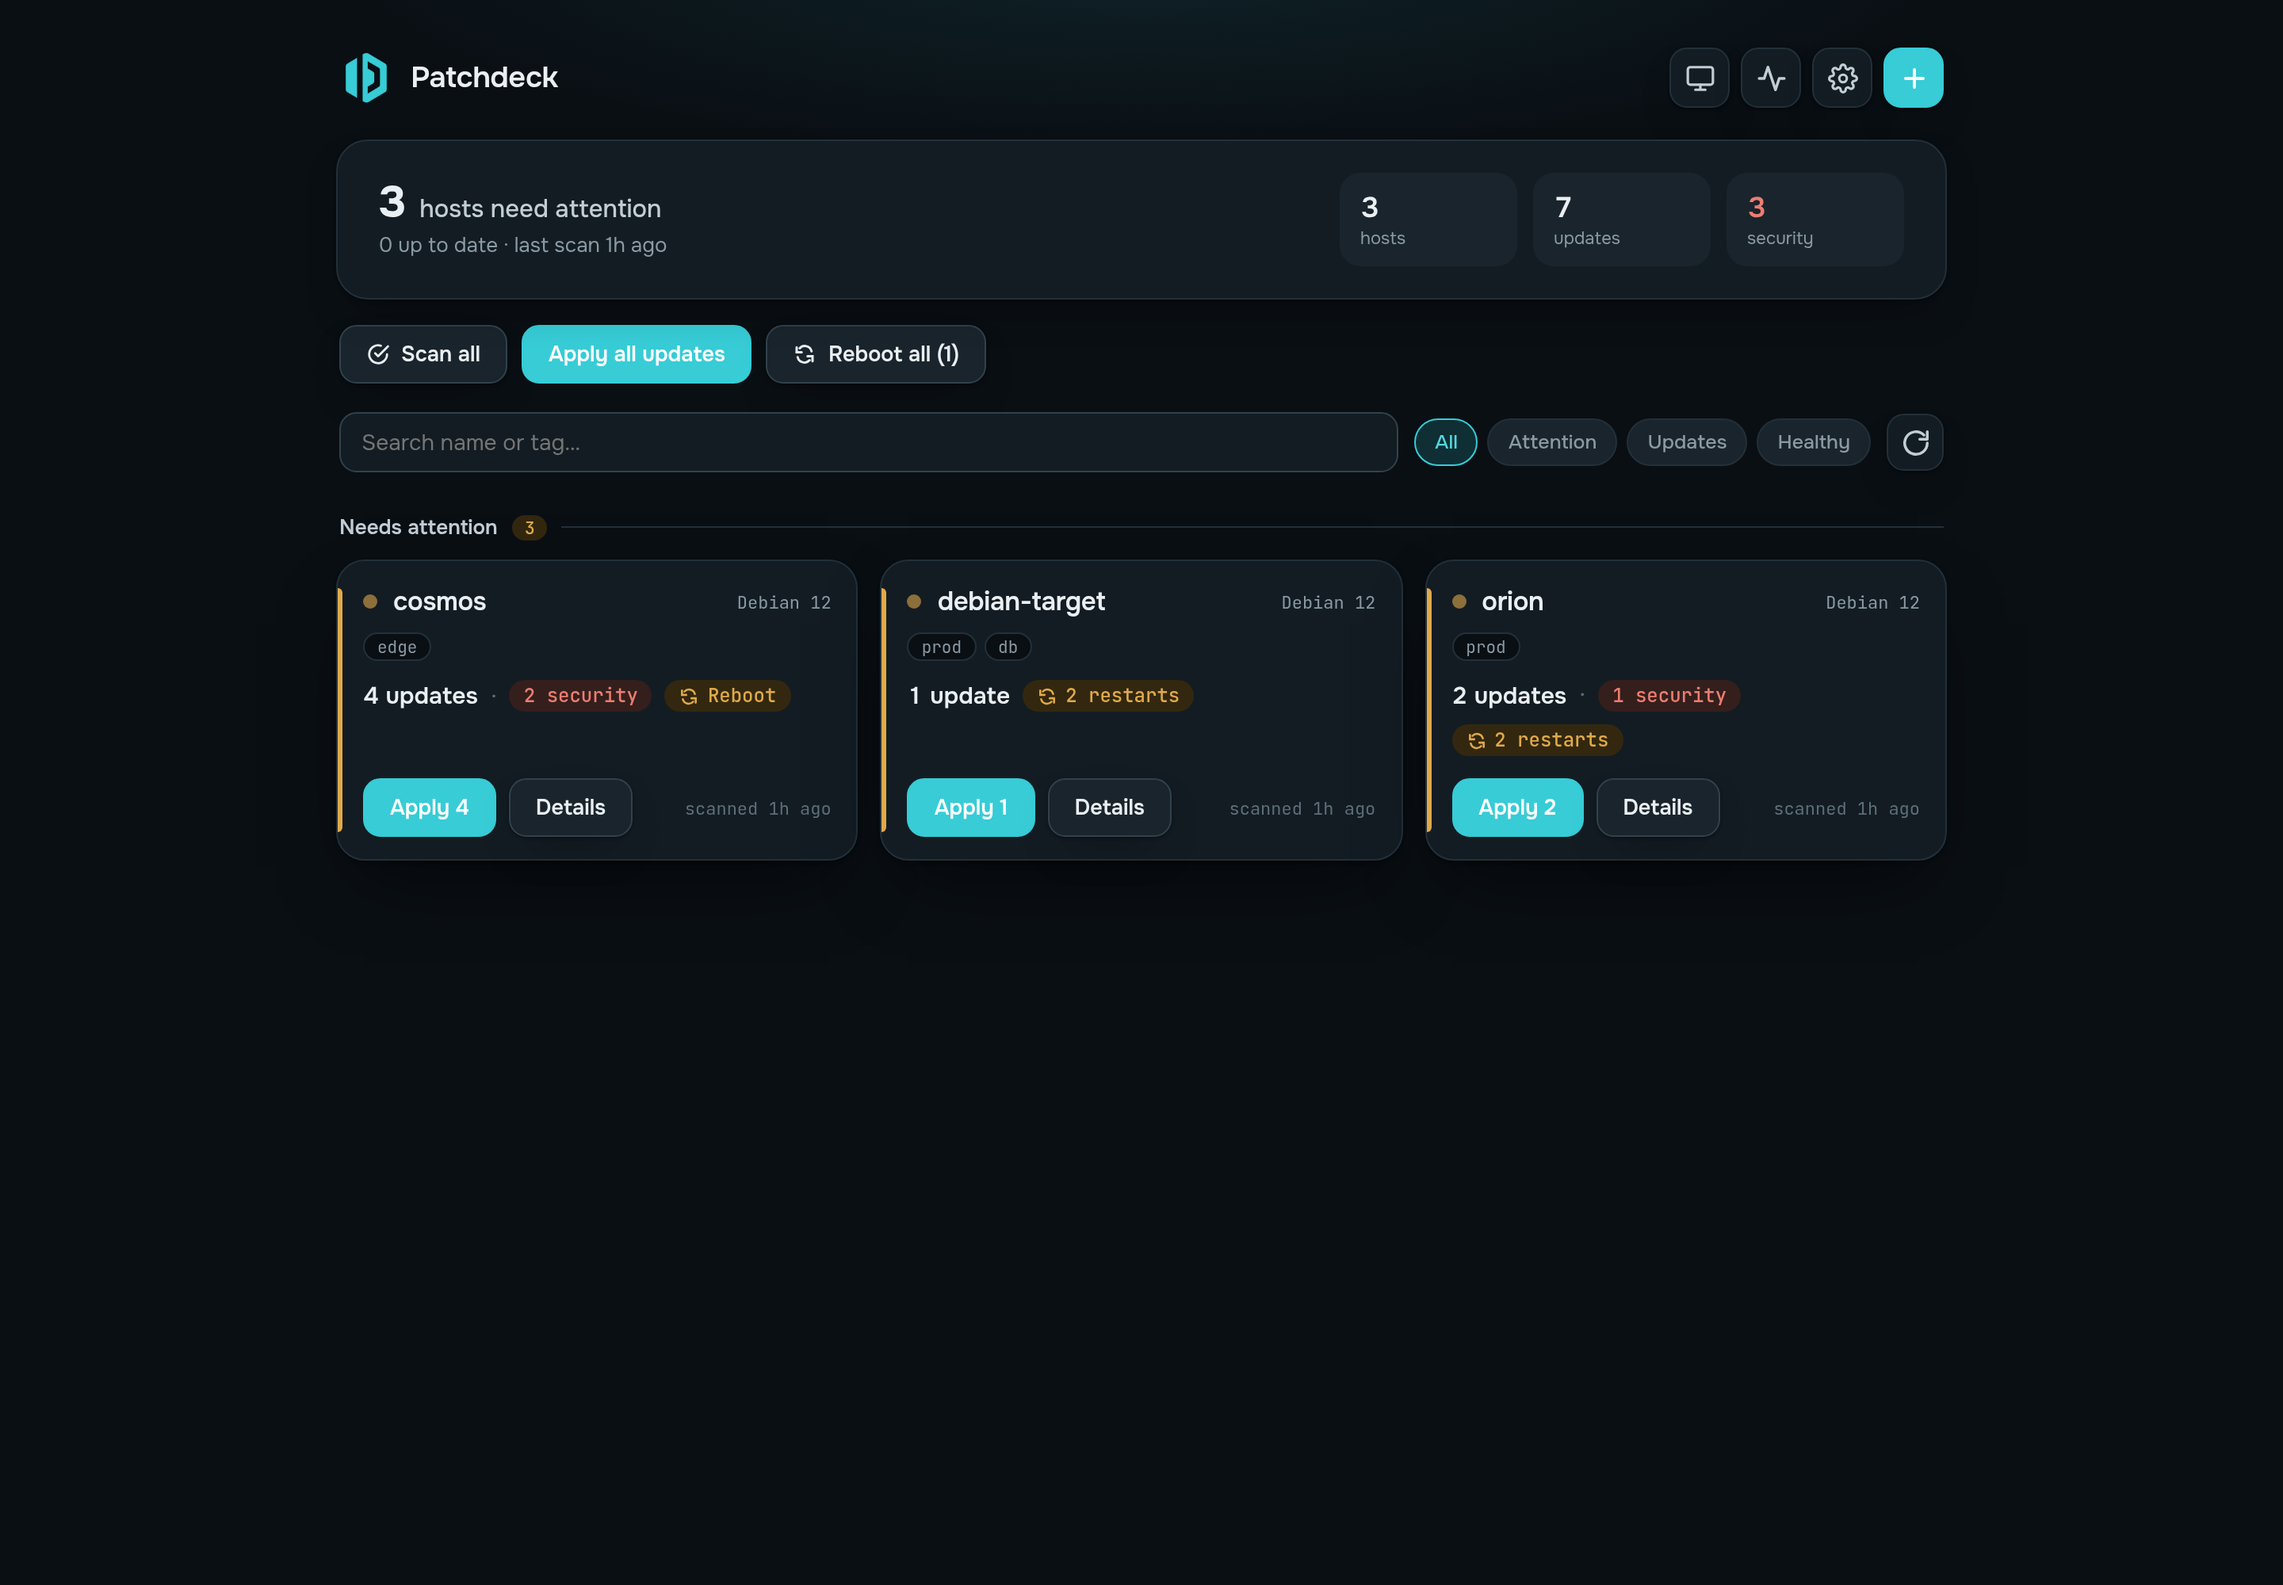
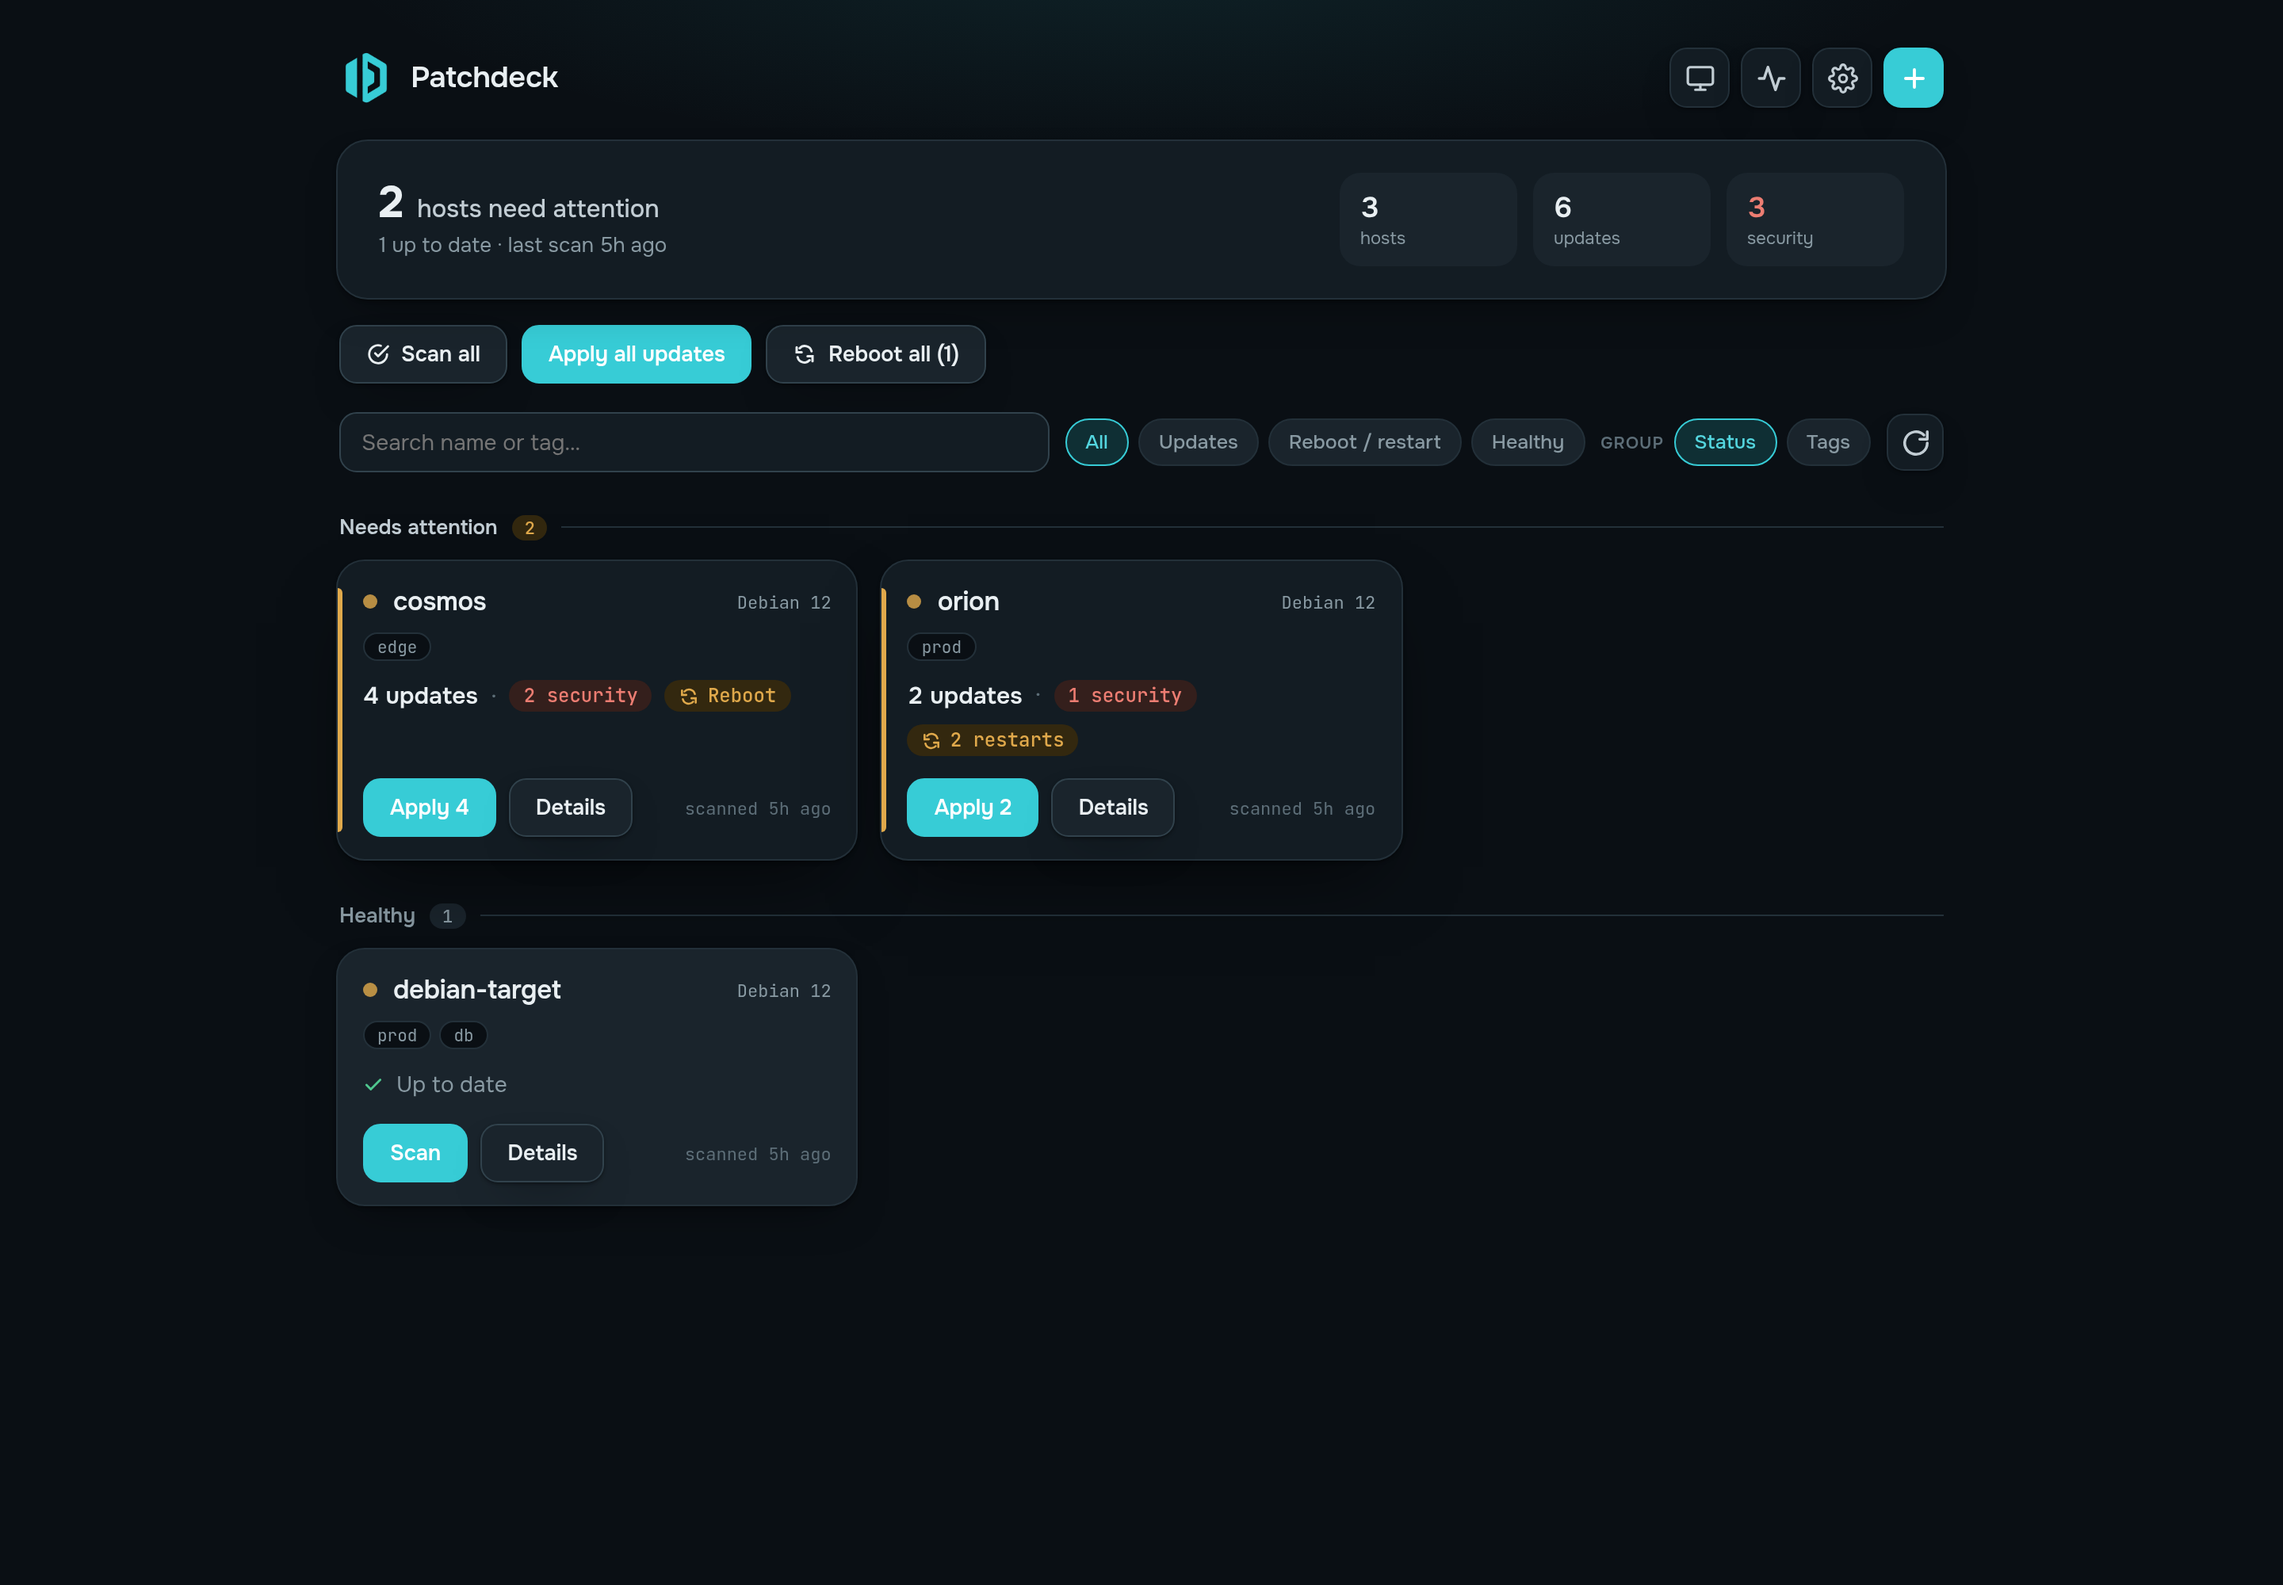
docs: refresh dashboard feature bullet + screenshots for the v2.5 live grouping/filters
The dashboard bullet described the pre-v2.5 behavior (auto tag-grouping + status filters); it
now describes the live re-filing, facet filters (updates/reboot-restart/healthy), and the
Group-by (Status|Tags) control. Regenerated the three dashboard screenshots to match — the old
ones showed the retired All/Attention/Updates/Healthy chips.

diff --git a/README.md b/README.md
@@ -60,7 +60,7 @@ It's **agentless**: nothing to install on your hosts, no daemon phoning home. Pa
 - **Intelligent service restart** — one **Restart services** action picks the right method per unit (a clean restart where it's safe, needrestart's coordinated handler where a naive restart would sever the session). Anything that comes back still flagged is **learned** and moved to a **reboot-required** bucket on its own — so you never have to guess which services actually need a reboot. A reboot (via Patchdeck or out-of-band) clears the learned set automatically.
 - **Reboot detection &amp; scoped fleet reboot** — surfaces `reboot-required` plus the exact services needing attention, split into restart-now vs reboot-required. **Reboot all** reboots only the hosts that need it — and never the host Patchdeck runs on, which it detects automatically (you can protect any other host too), each with its own "waiting for it to come back" watch
 - **First-connection host-key approval** — every new host's SSH key is captured and **held for your approval** before it's trusted; a changed key later pauses operations for re-approval (fail-closed, no silent trust)
-- **Tags &amp; grouped dashboard** — tag hosts by role/site/environment; the dashboard pins what **needs attention** on top and groups the rest by tag, with search and status filters
+- **Live, filterable dashboard** — hosts that **need attention** are pinned on top and **re-file themselves the moment a scan changes their status** (no reload); filter by facet (updates · reboot/restart · healthy), search by name or tag, and optionally **group by tag** (tag hosts by role/site/environment)
 - **Scheduled maintenance** — cron schedules targeting a single host, a tag, several hosts, or the whole fleet, with per-job run history (last/next run, per-host outcomes)
 - **Bulk actions** — scan, apply, or reboot across the fleet, each host streaming independently on its own card; concurrency-capped (`PATCHDECK_BULK_CONCURRENCY`) with an optional apply stagger (`PATCHDECK_APPLY_STAGGER_SECONDS`) so a large fleet doesn't bounce everything at once
 - **Activity log** — a timeline of every scan, apply, restart, reboot, and change, with configurable retention and CSV export
